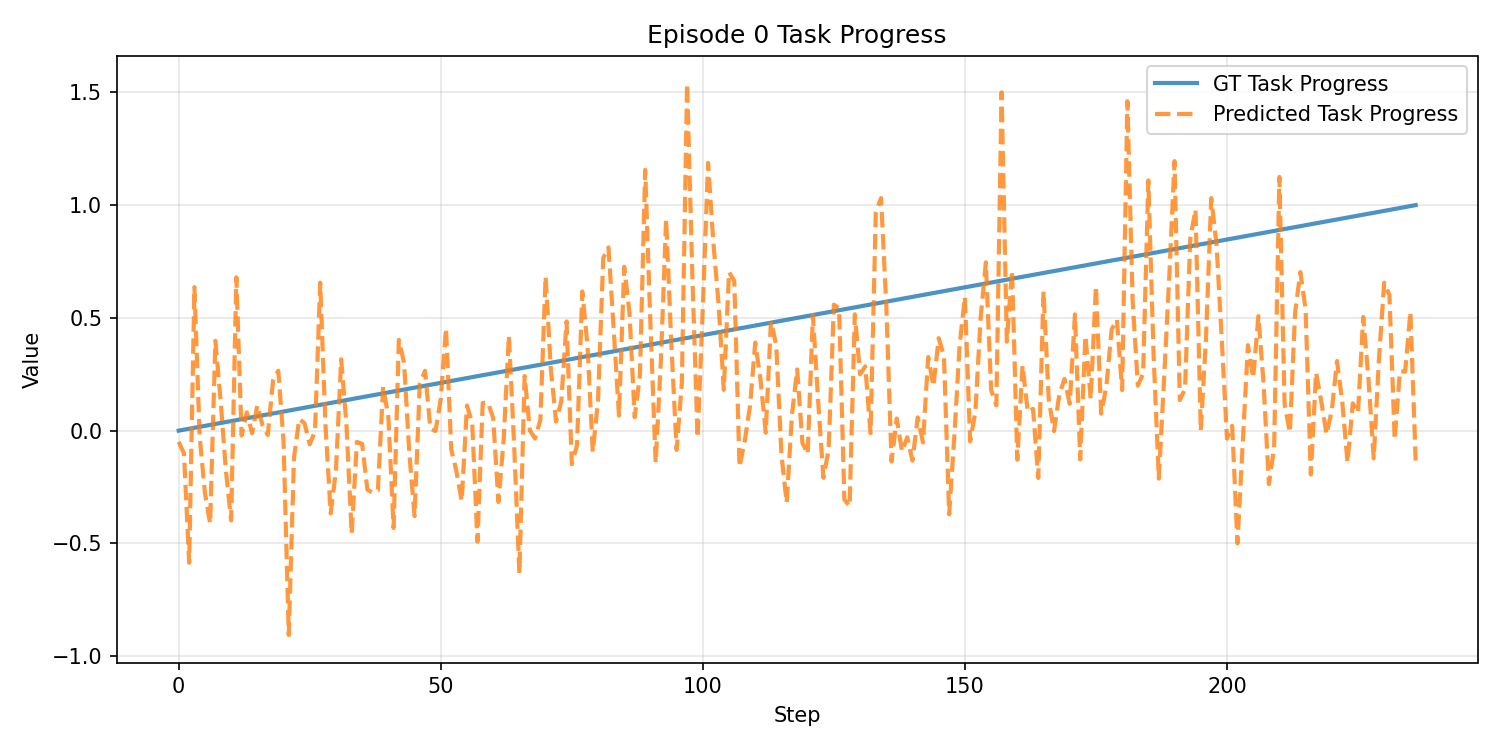
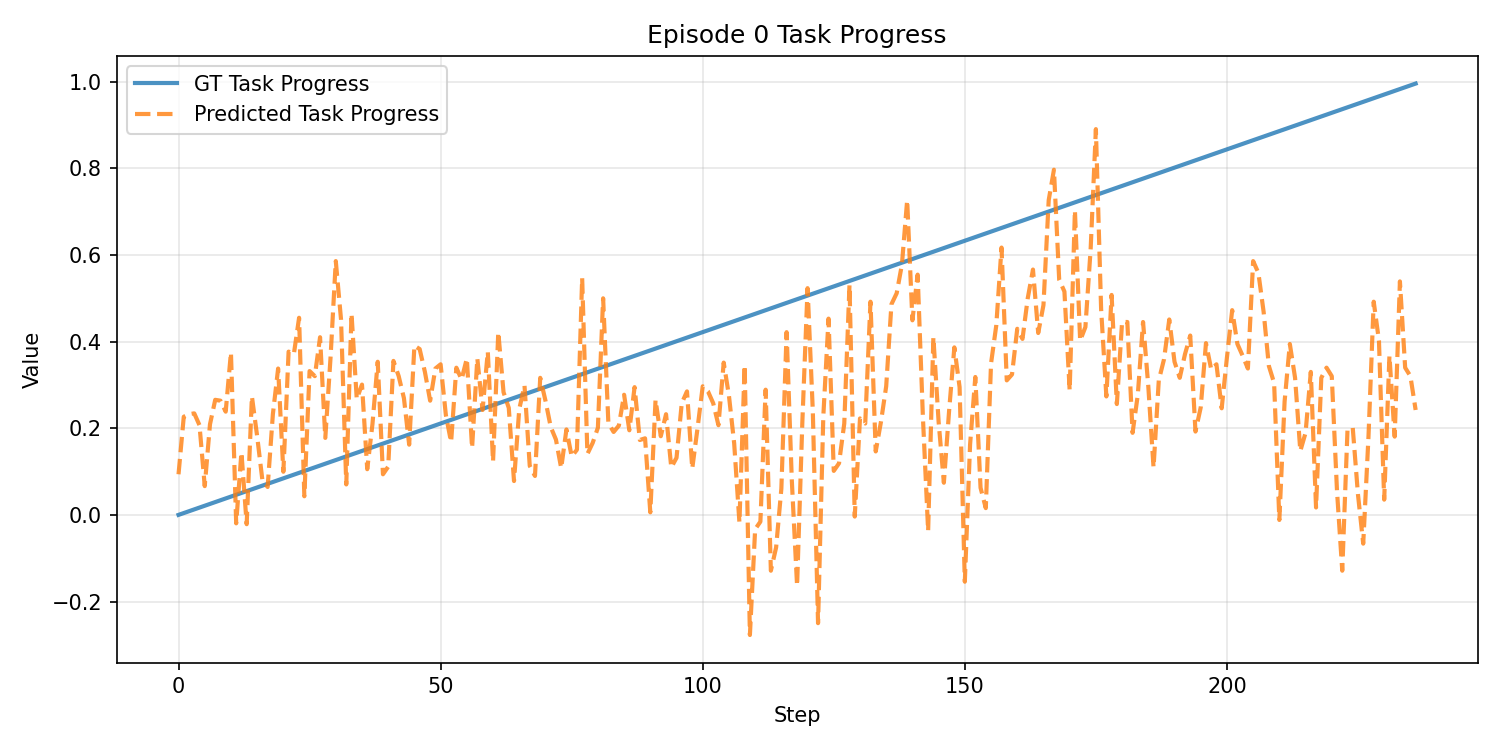
cache

diff --git a/scripts/data/create_droid_single_batch_dataset.py b/scripts/data/create_droid_single_batch_dataset.py
@@ -1,0 +1,128 @@
+#!/usr/bin/env python3
+"""Create a DROID LeRobot dataset that yields exactly one train sample.
+
+This keeps the first episode parquet/video files and writes a step filter that
+allows only one step index from that episode.
+"""
+
+from __future__ import annotations
+
+import argparse
+import json
+import shutil
+from pathlib import Path
+
+
+def read_first_episode(episodes_path: Path) -> dict:
+    with episodes_path.open("r", encoding="utf-8") as f:
+        first_line = f.readline().strip()
+    if not first_line:
+        raise ValueError(f"No episodes found in {episodes_path}")
+    return json.loads(first_line)
+
+
+def copy_if_exists(src: Path, dst: Path) -> None:
+    if src.exists():
+        dst.parent.mkdir(parents=True, exist_ok=True)
+        shutil.copy2(src, dst)
+
+
+def copy_episode_parquet(source_dir: Path, target_dir: Path, episode_index: int) -> None:
+    ep_name = f"episode_{episode_index:06d}.parquet"
+    matches = list(source_dir.glob(f"data/chunk-*/{ep_name}"))
+    if not matches:
+        raise FileNotFoundError(f"Could not find parquet for {ep_name} under {source_dir / 'data'}")
+    src = matches[0]
+    rel = src.relative_to(source_dir)
+    dst = target_dir / rel
+    dst.parent.mkdir(parents=True, exist_ok=True)
+    shutil.copy2(src, dst)
+
+
+def copy_episode_videos(source_dir: Path, target_dir: Path, episode_index: int) -> None:
+    video_name = f"episode_{episode_index:06d}.mp4"
+    for src in source_dir.glob(f"videos/chunk-*/**/{video_name}"):
+        rel = src.relative_to(source_dir)
+        dst = target_dir / rel
+        dst.parent.mkdir(parents=True, exist_ok=True)
+        shutil.copy2(src, dst)
+
+
+def write_step_filter(target_meta_dir: Path, episode_index: int, episode_length: int, keep_step: int) -> None:
+    if keep_step < 0 or keep_step >= episode_length:
+        raise ValueError(
+            f"keep-step {keep_step} is out of range for episode length {episode_length}"
+        )
+    filtered_indices = [i for i in range(episode_length) if i != keep_step]
+    payload = {
+        "episode_index": episode_index,
+        "step_indices": filtered_indices,
+    }
+    with (target_meta_dir / "step_filter.jsonl").open("w", encoding="utf-8") as f:
+        f.write(json.dumps(payload) + "\n")
+
+
+def main() -> None:
+    parser = argparse.ArgumentParser(description="Create single-batch DROID LeRobot dataset")
+    parser.add_argument("--source", default="data/droid_lerobot", help="Source LeRobot dataset path")
+    parser.add_argument(
+        "--target",
+        default="data/droid_lerobot_single_batch",
+        help="Target path for one-batch dataset",
+    )
+    parser.add_argument(
+        "--keep-step",
+        type=int,
+        default=0,
+        help="Step index to keep from first episode (all other steps filtered out)",
+    )
+    args = parser.parse_args()
+
+    source_dir = Path(args.source)
+    target_dir = Path(args.target)
+    source_meta = source_dir / "meta"
+    target_meta = target_dir / "meta"
+
+    if not source_dir.exists():
+        raise FileNotFoundError(f"Source dataset does not exist: {source_dir}")
+    if not source_meta.exists():
+        raise FileNotFoundError(f"Missing meta directory: {source_meta}")
+
+    if target_dir.exists():
+        shutil.rmtree(target_dir)
+    target_meta.mkdir(parents=True, exist_ok=True)
+
+    first_episode = read_first_episode(source_meta / "episodes.jsonl")
+    episode_index = int(first_episode["episode_index"])
+    episode_length = int(first_episode["length"])
+
+    # Keep first episode metadata only.
+    with (target_meta / "episodes.jsonl").open("w", encoding="utf-8") as f:
+        f.write(json.dumps(first_episode) + "\n")
+
+    # Copy all other meta files; update info.json totals for clarity.
+    for meta_file in source_meta.iterdir():
+        if not meta_file.is_file() or meta_file.name == "episodes.jsonl":
+            continue
+        dst = target_meta / meta_file.name
+        if meta_file.name == "info.json":
+            with meta_file.open("r", encoding="utf-8") as f:
+                info = json.load(f)
+            info["total_episodes"] = 1
+            info["total_frames"] = episode_length
+            info["total_chunks"] = 1
+            with dst.open("w", encoding="utf-8") as f:
+                json.dump(info, f, indent=2)
+        else:
+            shutil.copy2(meta_file, dst)
+
+    copy_episode_parquet(source_dir, target_dir, episode_index)
+    copy_episode_videos(source_dir, target_dir, episode_index)
+    write_step_filter(target_meta, episode_index, episode_length, args.keep_step)
+
+    print(f"Created single-batch dataset at: {target_dir}")
+    print(f"Episode index: {episode_index}, length: {episode_length}, kept step: {args.keep_step}")
+
+
+if __name__ == "__main__":
+    main()

diff --git a/scripts/eval_value_function.py b/scripts/eval_value_function.py
@@ -37,6 +37,39 @@ def save_value_plots(all_preds, all_gts, output_dir, episode_idx):
     print(f"Saved episode {episode_idx} plot to {plot_path}. MSE: {mse:.4f}")
 
 
+def _build_frame_progress(table):
+    """Build per-row task progress consistent with training: frame_index / episode_length."""
+    num_rows = table.num_rows
+    if "frame_index" in table.column_names:
+        frame_index = np.asarray(table.column("frame_index").to_pylist(), dtype=np.float32)
+    else:
+        frame_index = np.arange(num_rows, dtype=np.float32)
+    max_length = max(num_rows, 1)
+    return frame_index / float(max_length)
+
+
+def _future_progress_targets(progress, step_idx, action_horizon):
+    """Construct per-action-step future progress targets with end padding."""
+    idx = np.arange(step_idx, step_idx + action_horizon)
+    idx = np.clip(idx, 0, len(progress) - 1)
+    return progress[idx].reshape(-1, 1).astype(np.float32)
+
+
+def _project_to_value_tokens(raw_progress, num_value_tokens):
+    """Project action-horizon progress targets to value-token targets like training code."""
+    raw_t = torch.from_numpy(raw_progress.T).unsqueeze(0)  # [1, 1, action_horizon]
+    if num_value_tokens <= 1:
+        # Mirror interpolation branch behavior for single value token.
+        token_t = torch.nn.functional.interpolate(
+            raw_t, size=1, mode="linear", align_corners=True
+        )
+    else:
+        token_t = torch.nn.functional.interpolate(
+            raw_t, size=num_value_tokens, mode="linear", align_corners=True
+        )
+    return token_t.squeeze(0).T.numpy().astype(np.float32)  # [num_value_tokens, 1]
+
+
 def evaluate(args):
     os.environ["MASTER_ADDR"] = "localhost"
     os.environ["MASTER_PORT"] = "12355"
@@ -68,13 +101,18 @@ def evaluate(args):
             for p in mp4_files
         }
         
-        gt_progress_col = np.linspace(0, 1, num_rows)
+        gt_progress_col = _build_frame_progress(table)
         if "observation.state" in table.column_names:
             state_col = table.column("observation.state").to_pylist()
         else:
             state_col = None
+        if "annotation.language.language_instruction" in table.column_names:
+            language_col = table.column("annotation.language.language_instruction").to_pylist()
+        else:
+            language_col = None
         
         ep_preds, ep_gts = [], []
+        # Reset AR state at episode start (mimics socket_test behavior)
         policy.trained_model.action_head.reset()
         
         state_horizon = policy._state_horizon if policy._state_horizon is not None else 1
@@ -82,6 +120,7 @@ def evaluate(args):
         
         frame_buffers = {cam: [] for cam in caps.keys()}
         state_history = deque(maxlen=state_horizon)
+        call_count = 0
         
         for step_idx in range(num_rows):
             obs_dict = {}
@@ -90,7 +129,9 @@ def evaluate(args):
                 frame = cv2.cvtColor(frame, cv2.COLOR_BGR2RGB)
                 frame_buffers[cam_name].append(frame)
                 
-                num_frames = 1 if step_idx == 0 else frames_per_chunk
+                # Frame accumulation pattern matching socket_test:
+                # First call: 1 frame, subsequent: 4 frames per chunk
+                num_frames = 1 if call_count == 0 else frames_per_chunk
                 frames_to_use = frame_buffers[cam_name][-num_frames:]
                 
                 while len(frames_to_use) < num_frames:
@@ -102,19 +143,51 @@ def evaluate(args):
                 state_history.append(state_col[step_idx])
                 while step_idx == 0 and len(state_history) < state_horizon:
                     state_history.append(state_col[step_idx])
-                    
-                obs_dict["state"] = np.expand_dims(np.stack(state_history, axis=0), 0).astype(np.float32)
+
+                state_stack = np.stack(state_history, axis=0).astype(np.float32)
+                # Match training schema: split state keys before transform concat.
+                if state_stack.shape[-1] >= 8:
+                    joint = state_stack[:, :7]
+                    gripper = state_stack[:, 7:8]
+                else:
+                    joint = np.zeros((state_stack.shape[0], 7), dtype=np.float32)
+                    gripper = np.zeros((state_stack.shape[0], 1), dtype=np.float32)
+                    joint[:, : min(7, state_stack.shape[-1])] = state_stack[:, : min(7, state_stack.shape[-1])]
+                obs_dict["state.joint_position"] = np.expand_dims(joint, 0)
+                obs_dict["state.gripper_position"] = np.expand_dims(gripper, 0)
+
+            # Match training language key for OXE DROID transforms.
+            if language_col is not None and len(language_col) > step_idx:
+                obs_dict["annotation.language.language_instruction"] = str(language_col[step_idx])
+            else:
+                obs_dict["annotation.language.language_instruction"] = ""
             
-            batch = policy.apply(Batch(obs=obs_dict))
-            
+            # Use the same inference path as deployment and read propagated value_pred.
             with torch.inference_mode():
-                b_in, a_in = policy.trained_model.prepare_input(batch.normalized_obs)
-                b_out = policy.trained_model.backbone(b_in)
-                outputs = policy.trained_model.action_head.lazy_joint_video_action(b_out, a_in, latent_video=None)
-                
-            v_pred = outputs.data["value_pred"].cpu().float().numpy()
-            ep_preds.append(float(v_pred[0, 0, 0] if len(v_pred.shape) == 3 else v_pred[0, 0]))
-            ep_gts.append(float(gt_progress_col[step_idx]))
+                result_batch, _ = policy.lazy_joint_forward_causal(Batch(obs=obs_dict))
+
+            if hasattr(result_batch, "value_pred"):
+                v_pred = result_batch.value_pred.cpu().float().numpy()
+            else:
+                print("Warning: result_batch.value_pred is missing; falling back to 0.")
+                v_pred = np.zeros((1, 1), dtype=np.float32)
+
+            if v_pred.ndim == 1:
+                v_pred = v_pred.reshape(-1, 1)
+
+            num_value_tokens = int(v_pred.shape[0])
+            action_horizon = int(getattr(policy.trained_model.action_head, "action_horizon", 24))
+            raw_progress = _future_progress_targets(gt_progress_col, step_idx, action_horizon)
+            gt_tokens = _project_to_value_tokens(raw_progress, num_value_tokens)
+
+            # Sequence-level metric: compare all predicted value tokens against aligned targets.
+            token_mse = float(np.mean((v_pred[:, :1] - gt_tokens[:, :1]) ** 2))
+
+            # Keep one scalar per step for plotting (mean over value tokens).
+            ep_preds.append(float(np.mean(v_pred[:, 0])))
+            ep_gts.append(float(np.mean(gt_tokens[:, 0])))
+            print(f"step={step_idx:04d} token_mse={token_mse:.6f} pred_shape={v_pred.shape}")
+            call_count += 1
                 
         for cap in caps.values():
             cap.release()

diff --git a/groot/vla/model/n1_5/sim_policy.py b/groot/vla/model/n1_5/sim_policy.py
@@ -628,6 +628,7 @@ class GrootSimPolicy(BaseGrootSimPolicy):
             model_pred = self.trained_model.joint_video_action(normalized_input)
         normalized_action = model_pred["action_pred"].float()
         video_pred = model_pred["video_pred"]
+        value_pred = model_pred.get("value_pred")
 
         # 4. Unnormalize actions (pass obs for relative action conversion)
         original_obs = batch.obs
@@ -636,6 +637,11 @@ class GrootSimPolicy(BaseGrootSimPolicy):
         # 5. Remove batch dimension if we added it
         if not is_batched:
             batch.act = squeeze_dict_values(batch.act)
+            if value_pred is not None:
+                value_pred = value_pred.squeeze(0)
+
+        if value_pred is not None:
+            batch.value_pred = value_pred.float()
         return batch, video_pred
 
     def lazy_joint_forward_causal(self, batch, video=None, latent_video=None, state=None, video_only=False, **kwargs):
@@ -680,6 +686,7 @@ class GrootSimPolicy(BaseGrootSimPolicy):
             model_pred = self.trained_model.lazy_joint_video_action_causal(normalized_input, latent_video=latent_video)
         normalized_action = model_pred["action_pred"].float()
         video_pred = model_pred["video_pred"]
+        value_pred = model_pred.get("value_pred")
 
         model_time = time.perf_counter() - model_start_time
 
@@ -694,6 +701,11 @@ class GrootSimPolicy(BaseGrootSimPolicy):
         # 5. Remove batch dimension if we added it
         if not is_batched:
             batch.act = squeeze_dict_values(batch.act)
+            if value_pred is not None:
+                value_pred = value_pred.squeeze(0)
+
+        if value_pred is not None:
+            batch.value_pred = value_pred.float()
 
         untransform_time = time.perf_counter() - untransform_start_time
         total_time = transform_time + model_time + untransform_time
@@ -736,6 +748,7 @@ class GrootSimPolicy(BaseGrootSimPolicy):
             model_pred = self.trained_model.lazy_joint_video_action_causal_gt_cond(normalized_input, latent_video=latent_video)
         normalized_action = model_pred["action_pred"].float()
         video_pred = model_pred["video_pred"]
+        value_pred = model_pred.get("value_pred")
 
         # 4. Unnormalize actions (pass obs for relative action conversion)
         original_obs = batch.obs
@@ -744,6 +757,11 @@ class GrootSimPolicy(BaseGrootSimPolicy):
         # 5. Remove batch dimension if we added it
         if not is_batched:
             batch.act = squeeze_dict_values(batch.act)
+            if value_pred is not None:
+                value_pred = value_pred.squeeze(0)
+
+        if value_pred is not None:
+            batch.value_pred = value_pred.float()
         return batch, video_pred
 
     def lazy_joint_forward(self, batch, video=None, state=None, **kwargs):
@@ -776,6 +794,7 @@ class GrootSimPolicy(BaseGrootSimPolicy):
             model_pred = self.trained_model.lazy_joint_video_action(normalized_input)
         normalized_action = model_pred["action_pred"].float()
         video_pred = model_pred["video_pred"]
+        value_pred = model_pred.get("value_pred")
 
         # 4. Unnormalize actions (pass obs for relative action conversion)
         original_obs = batch.obs
@@ -784,6 +803,11 @@ class GrootSimPolicy(BaseGrootSimPolicy):
         # 5. Remove batch dimension if we added it
         if not is_batched:
             batch.act = squeeze_dict_values(batch.act)
+            if value_pred is not None:
+                value_pred = value_pred.squeeze(0)
+
+        if value_pred is not None:
+            batch.value_pred = value_pred.float()
         return batch, video_pred
     
     def lazy_joint_forward_efficient(self, batch, video=None, state=None, prompt_embs=None, prompt_emb_nega=None, **kwargs):